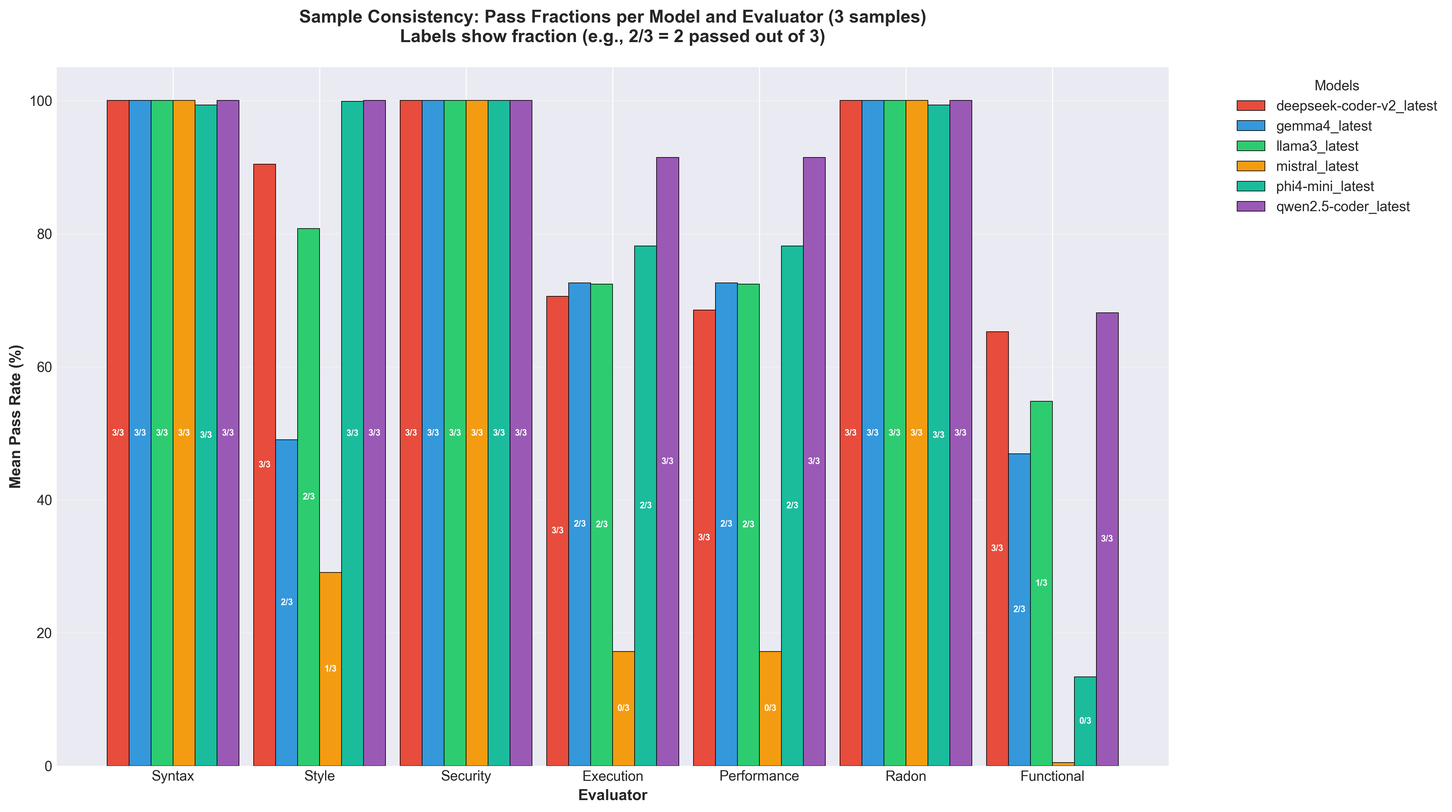
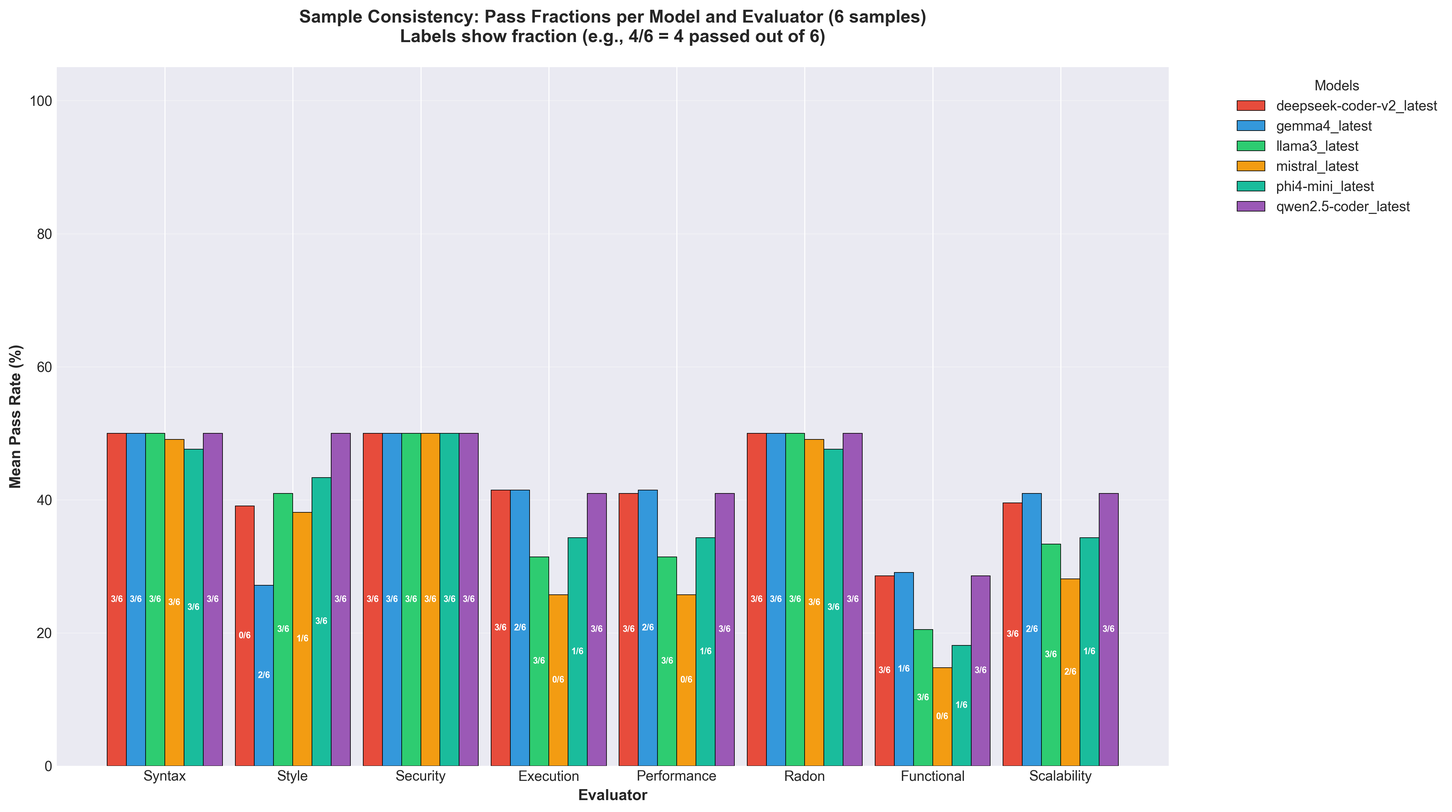
Conclusie uitgebreid en alles consitent gemaakt tussen absract conclusie en samenvatting

diff --git a/bachproef/resultaten.tex b/bachproef/resultaten.tex
@@ -14,17 +14,41 @@ Uit de analyse blijkt een duidelijk verband tussen taakcomplexiteit en functione
 
 De schaalbaarheidstest, waarbij de inputdata stapsgewijs werd vergroot tot het geheugengebruik de 2 GB grens overschreed, toonde eveneens duidelijke verschillen tussen de modellen. Qwen 2.5 Coder behaalde de hoogste gemiddelde schaalbaarheidsscore (80,6\%), gevolgd door Gemma 4 (79,9\%) en DeepSeek Coder V2 (77,2\%), terwijl Mistral de laagste score haalde (52,7\%). Opvallend is dat alle modellen voor bepaalde taken een schaalbaarheidsscore van 0\% noteerden, wat betekent dat de gegenereerde code wel correct werkte op kleine datasets maar faalde bij opschaling.
 
+In Tabel~\ref{tab:pass_rates} wordt een volledig overzicht gegeven van de pass rates per evaluator per model.
+
+\begin{table}[htbp]
+\centering
+\small
+\setlength{\tabcolsep}{3.5pt}
+\begin{tabular}{lcccccccc}
+\toprule
+\textbf{Model} & \textbf{Syntax} & \textbf{Style} & \textbf{Security} & \textbf{Exec.} & \textbf{Perf.} & \textbf{Radon} & \textbf{Funct.} & \textbf{Schaal.} \\
+\midrule
+DeepSeek Coder V2 & 100,0\% & 78,1\% & 100,0\% & 82,9\% & 81,9\% & 100,0\% & 57,1\% & 77,2\% \\
+Gemma 4           & 100,0\% & 54,3\% & 100,0\% & 82,9\% & 82,9\% & 100,0\% & 58,1\% & 79,9\% \\
+Llama 3           & 100,0\% & 81,9\% & 100,0\% & 62,9\% & 62,9\% & 100,0\% & 41,0\% & 65,5\% \\
+Mistral           &  98,1\% & 76,2\% & 100,0\% & 51,4\% & 51,4\% &  98,1\% & 29,5\% & 52,7\% \\
+Phi-4 Mini        &  95,2\% & 86,7\% & 100,0\% & 68,6\% & 68,6\% &  95,2\% & 36,2\% & 67,1\% \\
+Qwen 2.5 Coder    & 100,0\% & 100,0\% & 100,0\% & 81,9\% & 81,9\% & 100,0\% & 57,1\% & 80,6\% \\
+\bottomrule
+\end{tabular}
+\caption{Pass rate per evaluator per model over alle 105 samples (35 taken $\times$ 3 runs).}
+\label{tab:pass_rates}
+\end{table}
+
 \textbf{Figuur \ref{fig:01_evaluator_comparison}} toont een gegroepeerd staafdiagram van het gemiddelde slagingspercentage per evaluator voor elk model. \texttt{qwen2.5-coder} behaalde een perfecte score voor style (100\%) en excelleerde in syntax, security en Radon, maar bleef steken op 57,1\% voor functionele correctheid. \texttt{deepseek-coder-v2} toonde eveneens sterke syntactische en security-resultaten met een functionele score van 57,1\%. \texttt{gemma4} had de hoogste functionele score (58,1\%) maar de laagste style compliance (54,3\%). \texttt{llama3} behaalde een degelijke overall score (81,7\%) maar liet lagere execution (62,9\%) en functionaliteit (41,0\%) zien. \texttt{phi4-mini} en \texttt{mistral} scoorden lager op functionaliteit, respectievelijk 36,2\% en 29,5\%, met \texttt{mistral} ook opvallend zwak op execution (51,4\%).
 
-\textbf{Figuur \ref{fig:task_performance}} visualiseert de gemiddelde kwaliteitsscore per taakcategorie. De modellen presteerden over het algemeen vergelijkbaar over de verschillende categorieën (Data Cleaning, Data Operations, Data Transformation, Joins \& Aggregation, Performance Optimization), met lichte variaties afhankelijk van de taakcomplexiteit.
+\textbf{Figuur \ref{fig:functional_by_difficulty}} visualiseert de functionele correctheid per moeilijkheidsniveau. Alle zes modellen presteren lager op gemiddelde taken dan op eenvoudige taken. Voor eenvoudige taken varieert de functionele correctheid van 44,4\% (mistral) tot 75,0\% (deepseek-coder-v2 en qwen2.5-coder). Voor gemiddelde taken daalt deze naar 20,0\% (mistral) tot 55,0\% (deepseek-coder-v2 en qwen2.5-coder). De moeilijke taken (3 stuks) tonen een wisselend beeld, met uitschieters zoals phi4-mini (slechts 11,1\%).
 
-\textbf{Figuur \ref{fig:maintainability}} toont de onderhoudbaarheidsindex (Radon) per model. Alle modellen scoorden uitstekend, met waarden boven de 95\%, wat erop wijst dat de gegenereerde code over het algemeen goed gestructureerd en leesbaar is.
+\textbf{Figuur \ref{fig:overall_ranking}} toont de algemene rangschikking met drie scores per model. De rangschikking op kwaliteit (gemiddelde van de zes codekwaliteitsdimensies: syntaxis, style, security, executie, performantie en onderhoudbaarheid) is: deepseek-coder-v2 (90,3\%), qwen2.5-coder (90,2\%), gemma4 (86,5\%), phi4-mini (85,4\%), llama3 (81,7\%) en mistral (79,6\%). Gemma 4 behaalt de hoogste functionele score (58,1\%), Qwen 2.5 Coder de beste schaalbaarheid (80,6\%).
 
-\textbf{Figuur \ref{fig:lines_of_code}} geeft een boxplot-weergave van de code-omvang per model. Deze figuur toont de verspreiding in de lengte van de gegenereerde scripts, met de mediaan en de interkwartielafstand.
+\textbf{Figuur \ref{fig:scalability}} toont de schaalbaarheidsscore per model met het minimale en maximale bereik. Alle modellen hebben voor sommige taken een score van 0\%, wat betekent dat de code wel werkte op kleine datasets maar faalde bij opschaling.
+
+\textbf{Figuur \ref{fig:maintainability}} toont de onderhoudbaarheidsindex (Radon) per model. Alle modellen scoorden uitstekend, met waarden boven de 95\%.
 
 \textbf{Figuur \ref{fig:execution_times}} toont de verdeling van de uitvoeringstijden per model. Dit geeft inzicht in de runtime-efficiëntie van de gegenereerde code.
 
-\textbf{Figuur \ref{fig:model_ranking}} presenteert de algemene rangschikking op basis van de gemiddelde kwaliteitsscore over alle evaluatoren (exclusief functionaliteit). De rangschikking is: \texttt{deepseek-coder-v2} (90,3\%), \texttt{qwen2.5-coder} (90,2\%), \texttt{gemma4} (86,5\%), \texttt{phi4-mini} (85,4\%), \texttt{llama3} (81,7\%) en \texttt{mistral} (79,6\%).
+\textbf{Figuur \ref{fig:lines_of_code}} geeft een boxplot-weergave van de code-omvang per model.
 
 \textbf{Figuur \ref{fig:08_sample_consistency}} toont de consistentie over de drie samples per evaluator. Een lagere variantie wijst op een betrouwbaardere codegeneratie.
 
@@ -39,49 +63,56 @@ De schaalbaarheidstest, waarbij de inputdata stapsgewijs werd vergroot tot het g
 
 \begin{figure}[htbp]
     \centering
-    \includegraphics[width=0.9\linewidth]{images/02_task_performance.png}
-    \caption{Gemiddelde kwaliteitsscore per taakcategorie (Data Cleaning, Data Operations, Data Transformation, Joins \& Aggregation, Performance Optimization). De modellen presteren grotendeels vergelijkbaar over de categorieën heen, met kleine variaties die samenhangen met de taakcomplexiteit.}
-    \label{fig:task_performance}
+    \includegraphics[width=0.9\linewidth]{images/02_functional_by_difficulty.png}
+    \caption{Functionele correctheid per moeilijkheidsniveau (eenvoudig, gemiddeld, moeilijk). Alle zes modellen presteren lager op gemiddelde dan op eenvoudige taken.}
+    \label{fig:functional_by_difficulty}
 \end{figure}
 
 \begin{figure}[htbp]
     \centering
-    \includegraphics[width=0.9\linewidth]{images/03_maintainability.png}
-    \caption{Onderhoudbaarheidsindex (Radon) per model, weergegeven als percentage. Alle modellen behalen waarden boven 95\%, wat erop wijst dat de gegenereerde code over het algemeen goed gestructureerd en leesbaar is, ongeacht het model.}
+    \includegraphics[width=0.9\linewidth]{images/03_overall_ranking.png}
+    \caption{Eindranking met kwaliteit (6 evaluatoren), functionele correctheid en schaalbaarheid per model. DeepSeek Coder V2 voert aan op kwaliteit (90,3\%), Gemma 4 op functionele correctheid (58,1\%) en Qwen 2.5 Coder op schaalbaarheid (80,6\%).}
+    \label{fig:overall_ranking}
+\end{figure}
+
+\begin{figure}[htbp]
+    \centering
+    \includegraphics[width=0.9\linewidth]{images/04_scalability.png}
+    \caption{Schaalbaarheidsscore per model met minimale en maximale waarden. De figuur toont dat Qwen 2.5 Coder het beste presteert op schaalbaarheid (80,6\%) en Mistral het zwakst (52,7\%).}
+    \label{fig:scalability}
+\end{figure}
+
+\begin{figure}[htbp]
+    \centering
+    \includegraphics[width=0.9\linewidth]{images/05_maintainability.png}
+    \caption{Onderhoudbaarheidsindex (Radon) per model, weergegeven als gemiddelde met standaarddeviatie. Alle modellen behalen waarden boven 95\%.}
     \label{fig:maintainability}
 \end{figure}
 
 \begin{figure}[htbp]
     \centering
-    \includegraphics[width=0.9\linewidth]{images/04_lines_of_code.png}
-    \caption{Boxplot van de code-omvang (aantal regels) per model. De figuur toont de mediaan, interkwartielafstand en uitschieters, wat inzicht geeft in hoe beknopt of uitgebreid de gegenereerde scripts per model zijn.}
-    \label{fig:lines_of_code}
-\end{figure}
-
-\begin{figure}[htbp]
-    \centering
-    \includegraphics[width=0.9\linewidth]{images/05_execution_times.png}
-    \caption{Verdeling van de uitvoeringstijden (in seconden) per model. De figuur geeft inzicht in de runtime-efficiëntie van de gegenereerde code en toont of bepaalde modellen structureel tragere of snellere oplossingen produceren.}
+    \includegraphics[width=0.9\linewidth]{images/06_execution_times.png}
+    \caption{Uitvoeringstijden (seconden) per model in boxplotweergave. De figuur geeft inzicht in de runtime-efficiëntie van de gegenereerde code.}
     \label{fig:execution_times}
 \end{figure}
 
 \begin{figure}[htbp]
     \centering
-    \includegraphics[width=0.9\linewidth]{images/07_model_ranking.png}
-    \caption{Algemene rangschikking van de modellen op basis van de gemiddelde kwaliteitsscore over alle evaluatoren (exclusief functionele correctheid). DeepSeek Coder V2 voert de rangschikking aan met 90,3\%, gevolgd door Qwen 2.5 Coder (90,2\%) en Gemma 4 (86,5\%).}
-    \label{fig:model_ranking}
+    \includegraphics[width=0.9\linewidth]{images/07_lines_of_code.png}
+    \caption{Boxplot van de code-omvang (aantal regels) per model. De figuur toont de mediaan, interkwartielafstand en uitschieters.}
+    \label{fig:lines_of_code}
 \end{figure}
 
 \begin{figure}[htbp]
     \centering
     \includegraphics[width=0.9\linewidth]{images/08_sample_consistency.png}
-    \caption{Consistentie van de drie gegenereerde samples per model en per evaluator. Een lagere variantie wijst op een betrouwbaardere codegeneratie. Modellen met hoge variantie produceren wisselende kwaliteit bij identieke prompts.}
+    \caption{Consistentie van de drie gegenereerde samples per model en per evaluator, weergegeven als gemiddelde standaarddeviatie. Een lagere waarde wijst op een betrouwbaardere codegeneratie.}
     \label{fig:08_sample_consistency}
 \end{figure}
 
 \begin{figure}[htbp]
     \centering
     \includegraphics[width=0.9\linewidth]{images/09_generation_speed.png}
-    \caption{Generatiesnelheid in tokens per seconde voor elk model, gemeten tijdens het uitvoeren van de evaluatiepipeline. De figuur toont de verschillen in verwerkingssnelheid tussen de modellen, wat relevant is voor de gebruikerservaring in een interactieve omgeving.}
+    \caption{Generatiesnelheid in tokens per seconde voor elk model. De figuur toont de verschillen in verwerkingssnelheid tussen de modellen.}
     \label{fig:09_generation_speed}
 \end{figure}

diff --git a/bachproef/samenvatting.tex b/bachproef/samenvatting.tex
@@ -49,9 +49,9 @@
 
 Deze bachelorproef onderzoekt in welke mate zes large language models betrouwbare en technisch correcte Python code genereren voor representatieve data analyse en ETL taken binnen de context van studenten Toegepaste Informatica aan HOGENT. Het onderzoek vertrekt vanuit de toenemende inzet van generatieve AI in programmeeropdrachten, waarbij studenten code laten genereren voor data verwerking, transformatie en automatisatie, maar waarbij niet altijd duidelijk is hoe correct, veilig en onderhoudbaar die output werkelijk is. De centrale onderzoeksvraag luidt daarom: in welke mate verschilt de technische correctheid en betrouwbaarheid van Python code die wordt gegenereerd door verschillende LLM's voor representatieve data analyse en ETL taken binnen de context van HOGENT studenten Toegepaste Informatica, en welke praktische richtlijnen kunnen studenten helpen om foutieve of suboptimale output te herkennen en te verhelpen?
 
-Om deze vraag te beantwoorden werd een vergelijkende benchmark opgezet met zes modellen, namelijk Deepseek Coder V2, Gemma 4, llama 3, Mistral, Phi4-mini en Qwen 2.5 coder. Elk model werd getest op 35 representatieve taken voor data analyse en ETL, met drie samples per taak, wat resulteerde in 630 individuele code-evaluaties. De gegenereerde code werd volledig geautomatiseerd geëvalueerd op acht dimensies: syntaxis, style, beveiliging, uitvoerbaarheid, performantie, schaalbaarheid, onderhoudbaarheid (Radon) en functionele correctheid. De evaluatie combineerde automatische checks via AST parsing, Ruff, Bandit, runtime tests, performance profilers, Radon metrieken en functionele testen.
+Om deze vraag te beantwoorden werd een vergelijkende benchmark opgezet met zes modellen, namelijk DeepSeek Coder V2, Gemma 4, Llama 3, Mistral, Phi-4 Mini en Qwen 2.5 Coder. Elk model werd getest op 35 representatieve taken voor data analyse en ETL, met drie samples per taak, wat resulteerde in 630 individuele code-evaluaties. De gegenereerde code werd volledig geautomatiseerd geëvalueerd op acht dimensies: syntaxis, style, beveiliging, uitvoerbaarheid, performantie, schaalbaarheid, onderhoudbaarheid (Radon) en functionele correctheid. De evaluatie combineerde automatische checks via AST parsing, Ruff, Bandit, runtime tests, performance profilers, Radon metrieken en functionele testen.
 
-De resultaten tonen duidelijke verschillen tussen de modellen op het vlak van codekwaliteit, maar een opvallend consistent patroon op het vlak van functionele correctheid. De algemene rangschikking op basis van de gemiddelde kwaliteitsscore (exclusief functionele correctheid) is: deepseek-coder-v2 (90,3 procent), qwen2.5-coder (90,2 procent), gemma4 (86,5 procent), phi4-mini (85,4 procent), llama3 (81,7 procent) en mistral (79,6 procent). Opvallend is dat alle modellen uitstekende scores behaalden op syntaxis (95-100 procent), beveiliging (100 procent) en onderhoudbaarheid (boven 95 procent), maar dat de functionele correctheid sterk bleef steken tussen 29,5 procent en 58,1 procent. Gemma 4 behaalde de hoogste functionele score (58,1 procent) maar tegelijk de laagste style-compliance (54,3 procent). Qwen 2.5 coder was het enige model met perfecte style (100 procent), maar bleef steken op 57,1 procent functionele correctheid. DeepSeek Coder V2, de leider in algemene kwaliteit, behaalde eveneens 57,1 procent functionele correctheid. Llama 3, ondanks een degelijke overall ranking, behaalde slechts 41,0 procent functionele correctheid en 62,9 procent uitvoerbaarheid. Mistral toonde het grootste contrast: een lagere overall score (79,6 procent) maar eveneens de laagste functionele (29,5 procent) en execution (51,4 procent) scores.
+De resultaten tonen duidelijke verschillen tussen de modellen op het vlak van codekwaliteit, maar een opvallend consistent patroon op het vlak van functionele correctheid. De algemene rangschikking op basis van de gemiddelde kwaliteitsscore (exclusief functionele correctheid) is: deepseek-coder-v2 (90,3 procent), qwen2.5-coder (90,2 procent), gemma4 (86,5 procent), phi4-mini (85,4 procent), llama3 (81,7 procent) en mistral (79,6 procent). Opvallend is dat alle modellen uitstekende scores behaalden op syntaxis (95-100 procent), beveiliging (100 procent) en onderhoudbaarheid (boven 95 procent), maar dat de functionele correctheid sterk bleef steken tussen 29,5 procent en 58,1 procent. Gemma 4 behaalde de hoogste functionele score (58,1 procent) maar tegelijk de laagste style-compliance (54,3 procent). Qwen 2.5 Coder was het enige model met perfecte style (100 procent), maar bleef steken op 57,1 procent functionele correctheid. DeepSeek Coder V2, de leider in algemene kwaliteit, behaalde eveneens 57,1 procent functionele correctheid. Llama 3, ondanks een degelijke overall ranking, behaalde slechts 41,0 procent functionele correctheid en 62,9 procent uitvoerbaarheid. Mistral toonde het grootste contrast: een lagere overall score (79,6 procent) maar eveneens de laagste functionele (29,5 procent) en execution (51,4 procent) scores.
 
 De analyse toont aan dat functionele correctheid systematisch het grootste knelpunt vormt. De modellen genereerden regelmatig code die wel syntactisch correct en uitvoerbaar was, maar inhoudelijk toch foutieve resultaten opleverde of slechts een deel van de vereiste logica implementeerde. Uit de opsplitsing per moeilijkheidsniveau blijkt dat de functionele correctheid voor eenvoudige taken varieerde van 44,4 procent tot 75,0 procent, maar voor gemiddelde taken daalde naar 20,0 procent tot 55,0 procent. Alle zes modellen presteerden lager op gemiddelde dan op eenvoudige taken, wat bevestigt dat taken waarbij meerdere stappen gecombineerd moeten worden — zoals inlezen, transformeren, valideren en wegschrijven — systematisch vaker tot fouten leiden. De beveiligingsanalyse (Bandit) leverde een 100 procent score op voor alle modellen, wat te verklaren is doordat de ETL-taken in deze benchmark doorgaans geen beveiligingsgevoelige operaties bevatten zoals netwerkverkeer, authenticatie of cryptografie.
 

diff --git a/bachproef/conclusie.tex b/bachproef/conclusie.tex
@@ -10,13 +10,17 @@
 
 Deze bachelorproef onderzocht in welke mate zes large language models betrouwbare en technisch correcte Python code genereren voor 35 representatieve data analyse en ETL taken (630 individuele evaluaties). De evaluatie gebeurde volledig geautomatiseerd op acht dimensies: syntaxis, style, beveiliging, uitvoerbaarheid, performantie, schaalbaarheid, onderhoudbaarheid (Radon) en functionele correctheid.
 
-De centrale onderzoeksvraag kan als volgt worden beantwoord: de technische correctheid en betrouwbaarheid van LLM-gegenereerde Python code verschilt aanzienlijk tussen modellen, maar geen enkel model behaalde consistent sterke resultaten over alle kwaliteitscriteria. De algemene rangschikking op basis van de gemiddelde kwaliteitsscore is: \texttt{deepseek-coder-v2} (90,3\%), \texttt{qwen2.5-coder} (90,2\%), \texttt{gemma4} (86,5\%), \texttt{phi4-mini} (85,4\%), \texttt{llama3} (81,7\%) en \texttt{mistral} (79,6\%).
+De centrale onderzoeksvraag kan als volgt worden beantwoord: de technische correctheid en betrouwbaarheid van LLM-gegenereerde Python code verschilt aanzienlijk tussen modellen, maar geen enkel model behaalde consistent sterke resultaten over alle kwaliteitscriteria. De algemene rangschikking op basis van de gemiddelde kwaliteitsscore over de zes codekwaliteitsdimensies (syntaxis, style, beveiliging, uitvoerbaarheid, performantie en onderhoudbaarheid, dus exclusief functionele correctheid) is: \texttt{deepseek-coder-v2} (90,3\%), \texttt{qwen2.5-coder} (90,2\%), \texttt{gemma4} (86,5\%), \texttt{phi4-mini} (85,4\%), \texttt{llama3} (81,7\%) en \texttt{mistral} (79,6\%).
 
-Een opvallende bevinding is het significante verschil tussen codekwaliteit en functionele correctheid. Terwijl alle modellen uitstekende scores behaalden op syntaxis (95-100\%), style (54-100\%), beveiliging (100\%) en onderhoudbaarheid (>95\%), bleef de functionele correctheid tussen 29,5\% en 58,1\%. Dit wijst erop dat LLM's weliswaar syntactisch correcte code kunnen genereren, maar dat het implementeren van de correcte ETL-logica aanzienlijk moeilijker blijkt.
+Een opvallende bevinding is het significante verschil tussen codekwaliteit en functionele correctheid. Terwijl alle modellen uitstekende scores behaalden op syntaxis (95-100\%), beveiliging (100\%) en onderhoudbaarheid (>95\%), bleef de functionele correctheid tussen 29,5\% en 58,1\%. Dit wijst erop dat LLM's weliswaar syntactisch correcte code kunnen genereren, maar dat het implementeren van de correcte ETL-logica aanzienlijk moeilijker blijkt.
+
+De style score vertoonde de grootste spreiding (54,3\% tot 100\%). Opvallend is dat de lage score van Gemma 4 (54,3\%) niet wijst op fundamenteel slechte code, maar op triviale schendingen van de PEP-8 stijlrichtlijnen: ontbrekende nieuwe lijn op het einde van het bestand, te lange regels, witruimte op blanco lijnen en ongebruikte imports. Deze problemen kunnen door Ruff automatisch worden gecorrigeerd en beïnvloeden de correctheid van de code niet. Qwen 2.5 Coder was het enige model dat op alle 105 samples perfecte PEP-8 compliance behaalde (100\%).
 
 Uit de opsplitsing per moeilijkheidsniveau (zie hoofdstuk Resultaten) blijkt dat de functionele correctheid voor eenvoudige taken varieerde van 44,4\% tot 75,0\%, maar voor gemiddelde taken daalde naar 20,0\% tot 55,0\%. Alle zes modellen presteerden lager op gemiddelde dan op eenvoudige taken, wat aantoont dat taken waarbij meerdere bewerkingen moeten worden gecombineerd — zoals inlezen, transformeren, valideren en wegschrijven — systematisch vaker tot fouten leiden. De beveiligingsanalyse leverde een 100\% score op voor alle modellen, wat te verklaren is doordat de ETL-taken in deze benchmark doorgaans geen beveiligingsgevoelige operaties bevatten zoals netwerkverkeer, authenticatie of cryptografie.
 
 Ter vergelijking: \textcite{Bayram2025} rapporteren op HumanEval, een benchmark van eenvoudige ge\"isoleerde Python functies van gemiddeld 7,2 regels code, functionele scores tussen 72\% en 95\% voor grote commerci\"ele modellen zoals GPT-4 Omni en Claude Sonnet 4 (beide met 100+ miljard parameters). In dit onderzoek worden open source modellen van 3,8 tot 16 miljard parameters gebruikt, die uitvoerbaar zijn op gewone consumentenhardware. De complexiteit van de opdrachten verschilt bovendien aanzienlijk: een ETL-taak met inlezen, transformeren, valideren en wegschrijven over meerdere stappen en datasets is fundamenteel moeilijker dan het implementeren van een ge\"isoleerde stringbewerking of wiskundige functie. Een functionele score van 57,1\% voor de best presterende modellen is daarom realistisch en vergelijkbaar met wat van kleinere open source modellen op deze complexe taken mag worden verwacht.
+
+Ook op vlak van schaalbaarheid (zie Tabel~\ref{tab:pass_rates} en Figuur~\ref{fig:scalability}) waren er duidelijke verschillen tussen de modellen. Qwen 2.5 Coder behaalde de hoogste schaalbaarheidsscore (80,6\%), gevolgd door Gemma 4 (79,9\%) en DeepSeek Coder V2 (77,2\%). Mistral scoorde het zwakst (52,7\%). Uit de analyse blijkt dat alle modellen voor bepaalde taken een score van 0\% noteerden, wat betekent dat de code wel correct werkte op kleine datasets maar faalde bij opschaling naar grotere invoer. Dit wijst erop dat geen enkel model standaard schaalbare code genereert; expliciete instructies voor geheugenefficiëntie of chunking blijven noodzakelijk.
 
 De meerwaarde van dit onderzoek ligt in een concreet, volledig geautomatiseerd evaluatiekader voor studenten Toegepaste Informatica aan HOGENT. De bevindingen tonen aan dat generatieve AI nuttig kan zijn als ondersteunende programmeerhulp, maar niet zonder controle mag worden gebruikt. Zelfs de best presterende modellen halen geen volledig overtuigend niveau, met name door de systematische zwakte op functionele correctheid. De resultaten bevestigen de nood aan een kritische, testgebaseerde aanpak bij het gebruik van generatieve AI in programmeeronderwijs.
 

diff --git a/bachproef/standvanzaken.tex b/bachproef/standvanzaken.tex
@@ -78,7 +78,7 @@ Een recente systematische literatuurstudie naar Python voor data analyse geeft a
 
 In een praktijkgericht overzichtswerk over data analyse met Python tonen \textcite{Wei2025} aan hoe Python kan worden ingezet om een volledige workflow op te bouwen waarin dataverwerking, visualisatie en voorspelling in dezelfde taal worden beschreven. Zij illustreren hoe typische stappen zoals het inlezen van gegevens uit diverse bronnen, het uitvoeren van transformaties, het samenvoegen van tabellen en het voorbereiden van gegevens voor modellering direct in Python kunnen worden geprogrammeerd, zonder voortdurend tussen verschillende omgevingen te moeten wisselen \autocite{Wei2025}. Deze eenheid in taal en gereedschap verlaagt de kans op fouten bij het overzetten van gegevens en ondersteunt het automatiseren van ETL processen in scripts of notebooks die eenvoudig gedeeld en hergebruikt kunnen worden.
 
-\textcite{Sharma2020} vergelijkt Python expliciet met andere veel gebruikte omgevingen voor data analys. Daaruit blijkt dat Python in het bijzonder voordelen biedt op het vlak van open source beschikbaarheid, community ondersteuning en hoeveelheid gespecialiseerde bibliotheken voor taken zoals datacleaning, feature engineering en model evaluatie \autocite{Sharma2020}. Hoewel andere talen en tools in bepaalde niches efficiënter of eenvoudiger kunnen zijn, concluderen \textcite{Sharma2020} dat Python in de praktijk vaak de voorkeur krijgt omdat het een goede balans biedt tussen gebruiksvriendelijkheid en technische mogelijkheden voor zowel analyse als het bouwen van ETL processen.
+\textcite{Sharma2020} vergelijkt Python expliciet met andere veel gebruikte omgevingen voor data analyse. Daaruit blijkt dat Python in het bijzonder voordelen biedt op het vlak van open source beschikbaarheid, community ondersteuning en hoeveelheid gespecialiseerde bibliotheken voor taken zoals datacleaning, feature engineering en model evaluatie \autocite{Sharma2020}. Hoewel andere talen en tools in bepaalde niches efficiënter of eenvoudiger kunnen zijn, concluderen \textcite{Sharma2020} dat Python in de praktijk vaak de voorkeur krijgt omdat het een goede balans biedt tussen gebruiksvriendelijkheid en technische mogelijkheden voor zowel analyse als het bouwen van ETL processen.
 
 Op basis hiervan kan worden gesteld dat Python een onderbouwde keuze is als centrale taal voor data analyse en ETL in deze bachelorproef \autocite{Kabir2024,Sharma2020}. De taal wordt breed ondersteund in onderzoek en praktijk, laat toe om het volledige pad van ruwe gegevens tot analyse klare dataset in een consistente omgeving uit te werken en sluit nauw aan bij de manier waarop veel moderne data analytics en data engineering projecten worden opgezet.
 

diff --git a/bachproef/methodologie.tex b/bachproef/methodologie.tex
@@ -231,7 +231,7 @@ In de derde fase werden de verzamelde gegevens systematisch geanalyseerd per mod
     \item \textbf{Verdeling van code omvang en uitvoeringstijd}: statistische samenvatting van regels code en executietijd.
 \end{itemize}
 
-Deze resultaten werden visueel samengevat in tabellen en grafieken en vormden de basis voor de beantwoording van de onderzoeksvraag en deelvragen. Parallel hiermee werd op basis van de geobserveerde patronen een praktisch evaluatiekader ontwikkeld, dat bestaat uit aanbevelingen voor teststrategieën bij data analyse en ETL taken en richtlijnen voor het kiezen en gebruiken van modellen via Ollama in een onderwijscontext. De deliverables van deze fase zijn de geanalyseerde resultaten en de daaruit afgeleide aanbevelingen. Deze opbouw sluit aan bij eerdere raamwerken in de literatuur, maar is specifiek afgestemd op Python gebaseerde data engineering taken en op de praktijkcontext van HOGENT \autocite{LopezEspejel2025}.
+Deze resultaten werden visueel samengevat in figuren en vormden de basis voor de beantwoording van de onderzoeksvraag en deelvragen. Parallel hiermee werd op basis van de geobserveerde patronen een praktisch evaluatiekader ontwikkeld, dat bestaat uit aanbevelingen voor teststrategieën bij data analyse en ETL taken en richtlijnen voor het kiezen en gebruiken van modellen via Ollama in een onderwijscontext. De deliverables van deze fase zijn de geanalyseerde resultaten en de daaruit afgeleide aanbevelingen. Deze opbouw sluit aan bij eerdere raamwerken in de literatuur, maar is specifiek afgestemd op Python gebaseerde data engineering taken en op de praktijkcontext van HOGENT \autocite{LopezEspejel2025}.
 
 \section{Samenvatting van de onderzoekscasussen}
 
